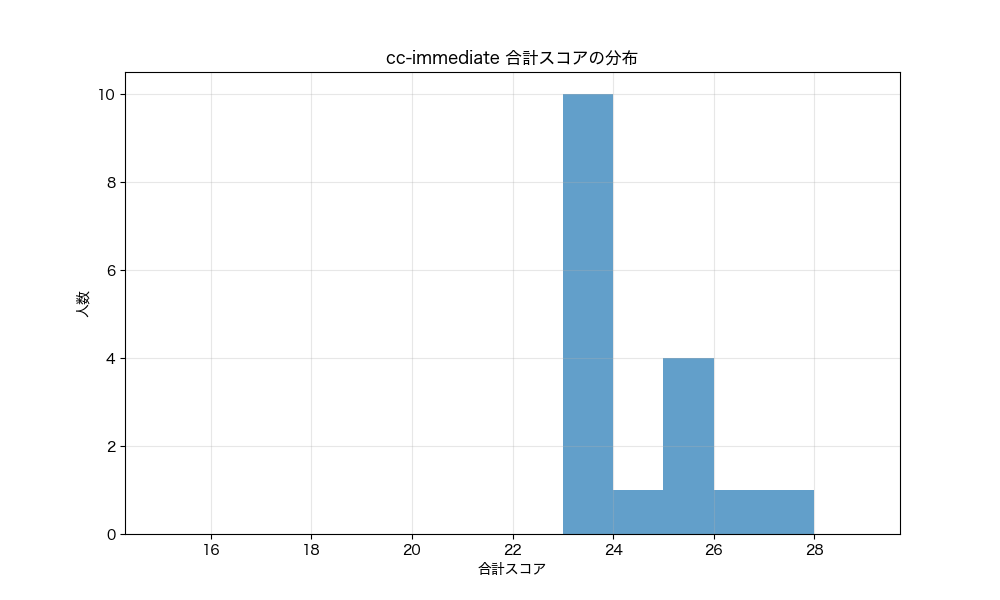
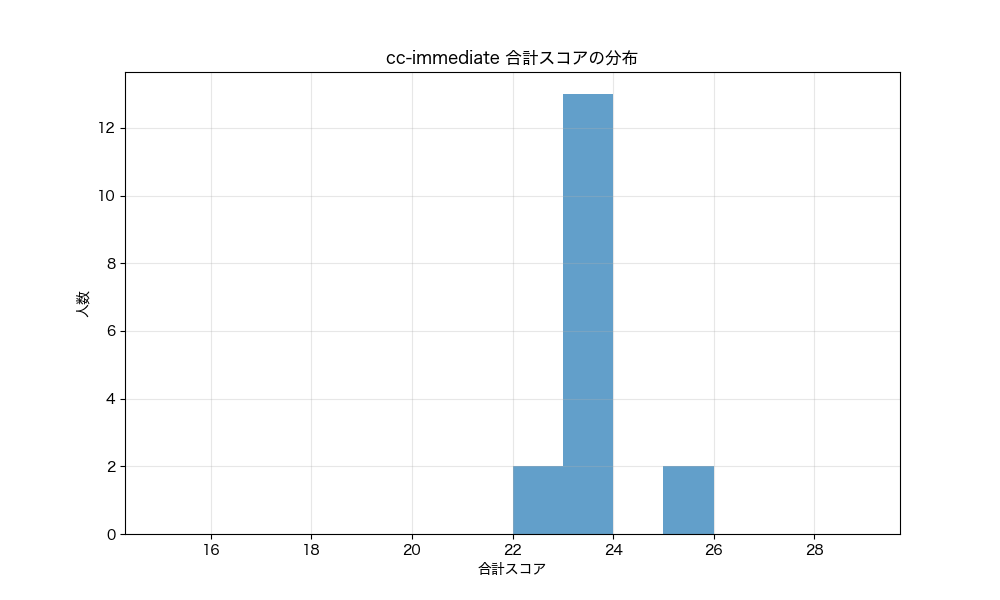
プロンプトチューニング

diff --git a/LLM+scenario-improved/dialogue_test.py b/LLM+scenario-improved/dialogue_test.py
@@ -71,19 +71,25 @@ def build_patient_data_prompt(patient_data):
 # カウンセラーの発話生成関数
 def generate_counselor_message(counselor_message, messages_for_counselor, messages_for_patient, openai, model, turn, scenario_data):
     counselor_message_prompt = f"""
+# 命令書：
 あなたは優秀なカウンセラーエージェントです。
-あなたは認知行動療法を行う初回セッションを行なっています。
-カウンセラーエージェントには発話シナリオが用意されています。
+以下の制約条件と発話シナリオ、対話履歴をもとに発話を生成してください。
 
-発話シナリオ一覧：
-{json.dumps(scenario_data, ensure_ascii=False, indent=2)}
+# 制約条件：
+- 基本的に発話シナリオに沿って、自然な発話を生成する。
+- 患者の症状に関する返答には、発話のはじめに繰り返し（言い換え）や共感的な声かけを1文で簡潔に行う。
+  - 例：「つまり〇〇ということですね。」「それは〇〇ですね。」
+- 必要に応じて発話シナリオの表現を修正して良い。ただし、各ターンの発話シナリオの内容は生成する発話に必ず含める。
+- 発話シナリオに含まれない質問や提案はしない。
+- 指示をするような断定的な発話はしない。
+  - 例：「まずは〇〇することが大切です。」などの指示的な発話はしない。
+- 患者からの質問には回答しながらも、発話シナリオからは逸脱しない。
 
-今回のターン{turn}の発話シナリオは以下の通りです。
-発話シナリオに沿って、共感を示しながら自然な発話を行なってください。
-ただし、発話シナリオに含まれない質問や提案はしないでください。
-
-発話シナリオ：
+# 今回のターン{turn}の発話シナリオ：
 {counselor_message}
+
+# 発話シナリオ一覧：
+{json.dumps(scenario_data, ensure_ascii=False, indent=2)}
 """
     # カウンセラーのメッセージリストを更新
     messages_for_counselor = [{"role": "system", "content": counselor_message_prompt}] + messages_for_counselor[1:]
@@ -110,8 +116,8 @@ def generate_patient_response(messages_for_patient, messages_for_counselor, open
     return patient_reply, messages_for_patient, messages_for_counselor
 
 # 患者データ選択
-tester_patient_id = [2, 7, 10, 13, 15, 19, 20, 22, 27, 28, 33, 37, 38, 40, 41, 48, 49]
-# tester_patient_id = [2]
+tester_patient_id = [2]
+# tester_patient_id = [2, 7, 10, 13, 15, 19, 20, 22, 27, 28, 33, 37, 38, 40, 41, 48, 49]
 # tester_patient_id = [7, 10, 13, 15, 19, 20, 22, 27, 28, 33, 37, 38, 40, 41, 48, 49]
 
 # 対話開始
@@ -149,9 +155,16 @@ for patient_id in tester_patient_id:
     for turn in range(len(scenario_data)):
         counselor_scenario_message = scenario_data[turn]["counselor_message"]
 
-        counselor_reply, messages_for_counselor, messages_for_patient = generate_counselor_message(
-            counselor_scenario_message, messages_for_counselor, messages_for_patient, openai, model, turn, scenario_data
-        )
+        # 1ターン目はシナリオ通りの発話を使用
+        if turn == 0:
+            counselor_reply = counselor_scenario_message
+            messages_for_counselor.append({"role": "assistant", "content": counselor_reply})
+            messages_for_patient.append({"role": "user", "content": counselor_reply})
+        else:
+            # 2ターン目以降はLLMが介入
+            counselor_reply, messages_for_counselor, messages_for_patient = generate_counselor_message(
+                counselor_scenario_message, messages_for_counselor, messages_for_patient, openai, model, turn, scenario_data
+            )
 
         patient_reply, messages_for_patient, messages_for_counselor = generate_patient_response(
             messages_for_patient, messages_for_counselor, openai, model
